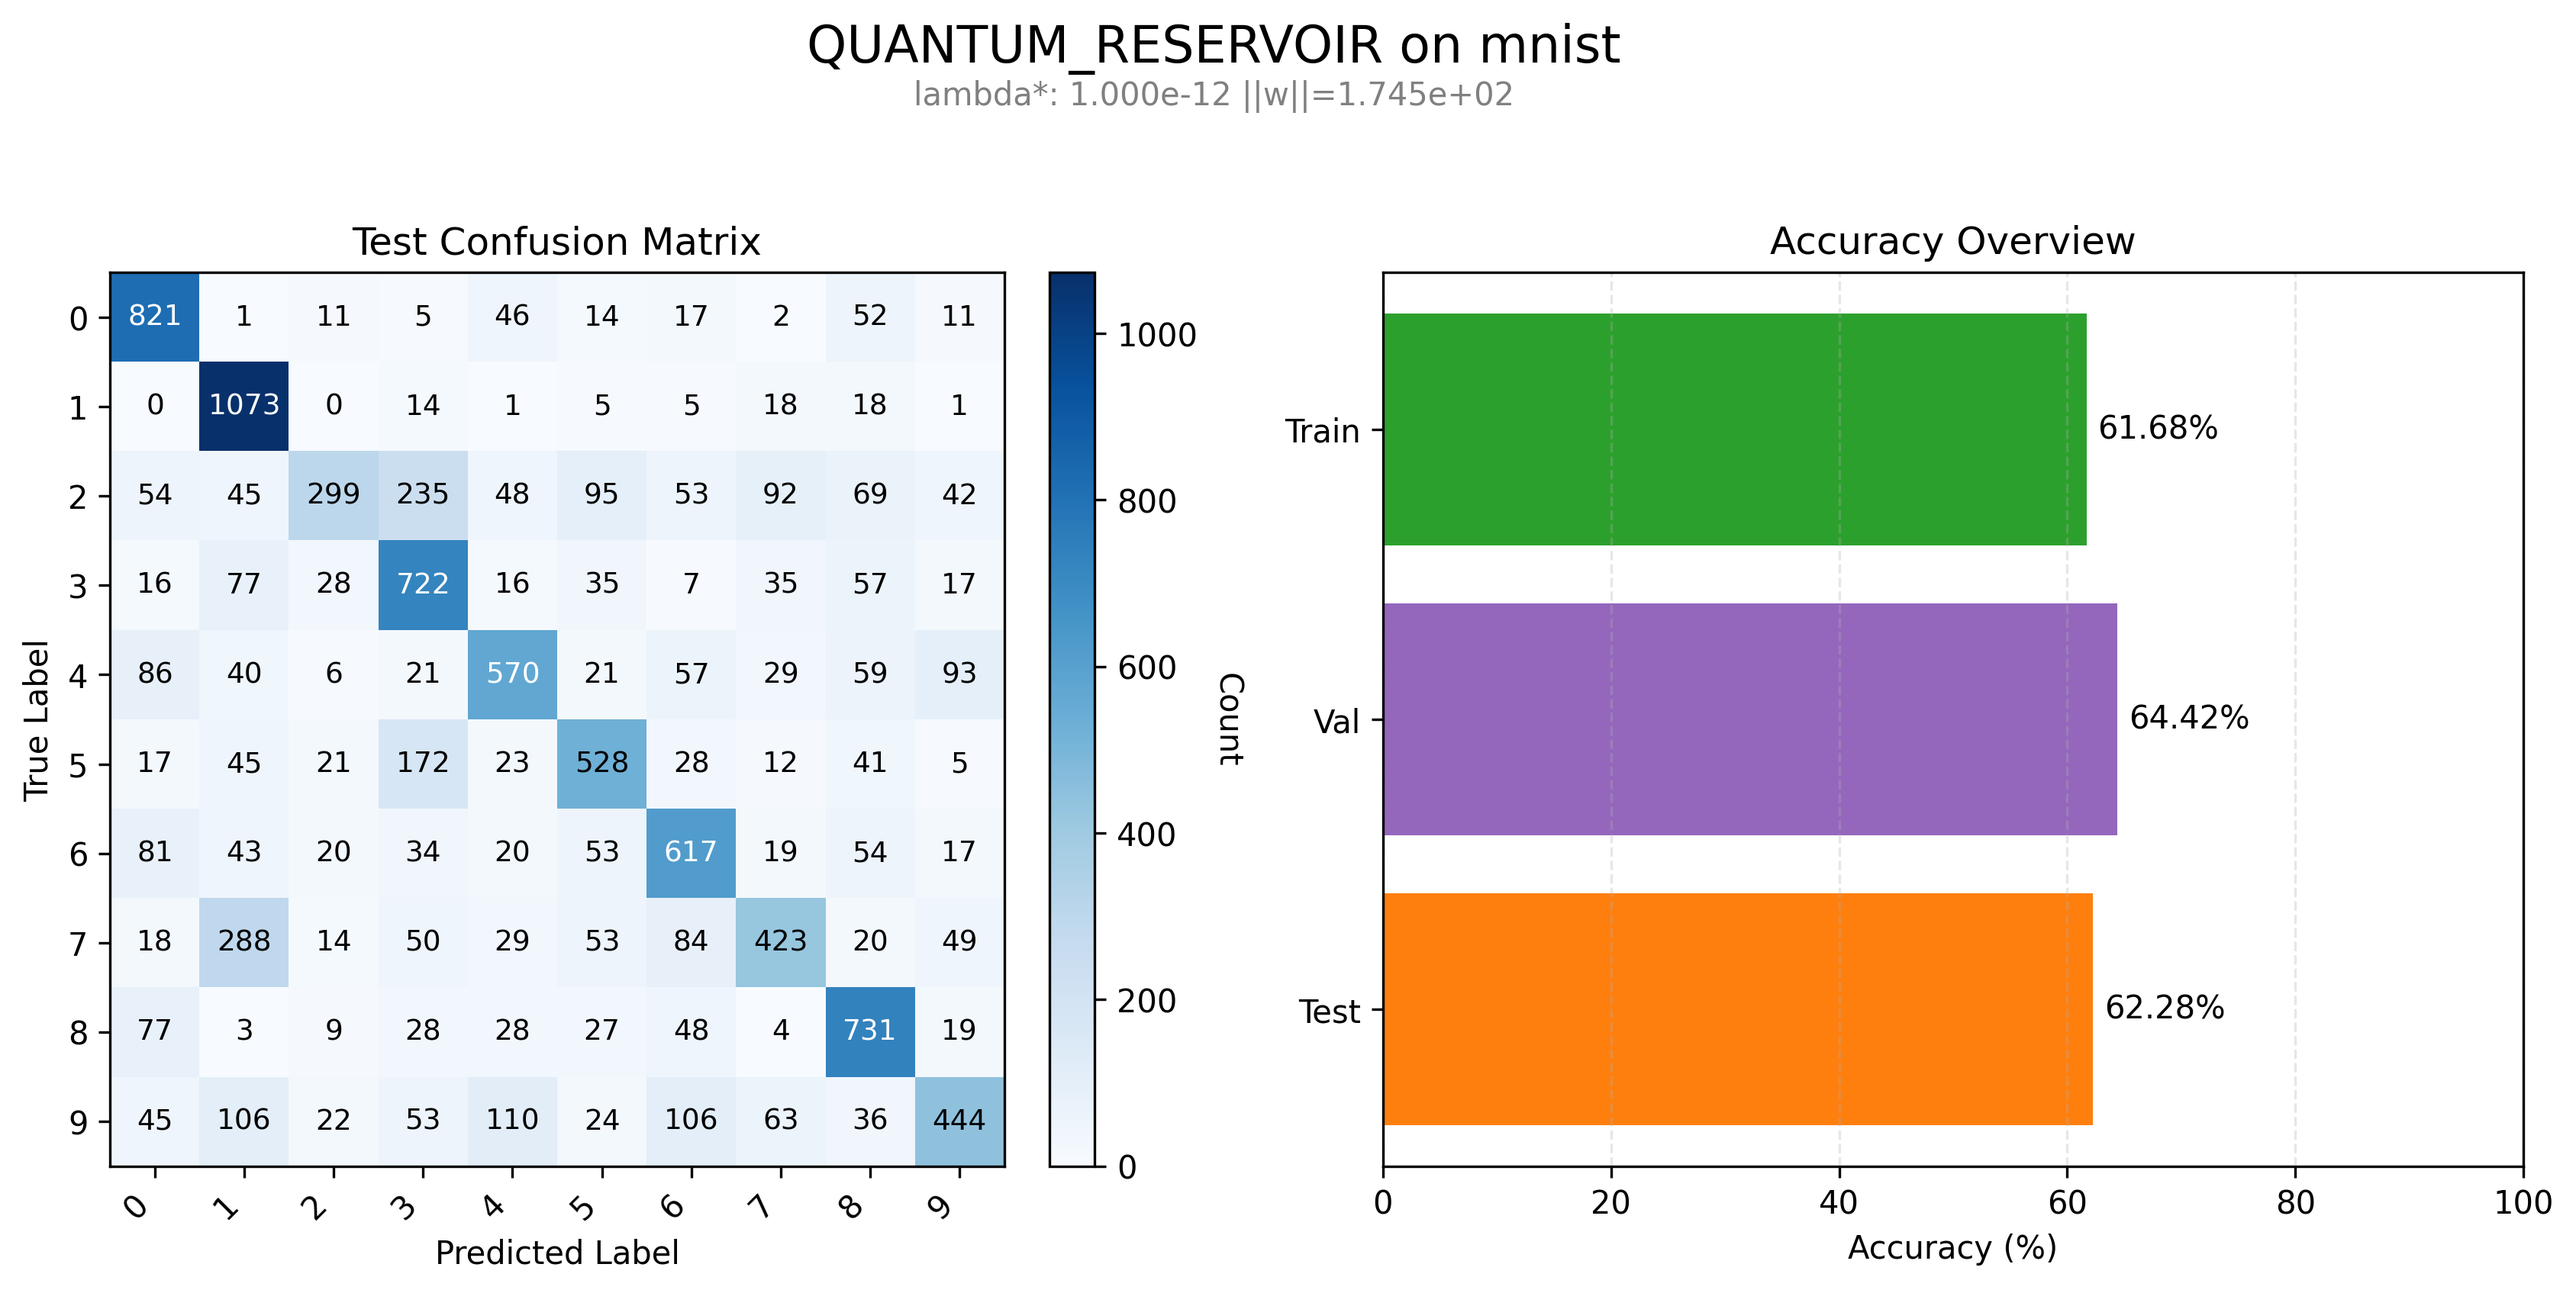
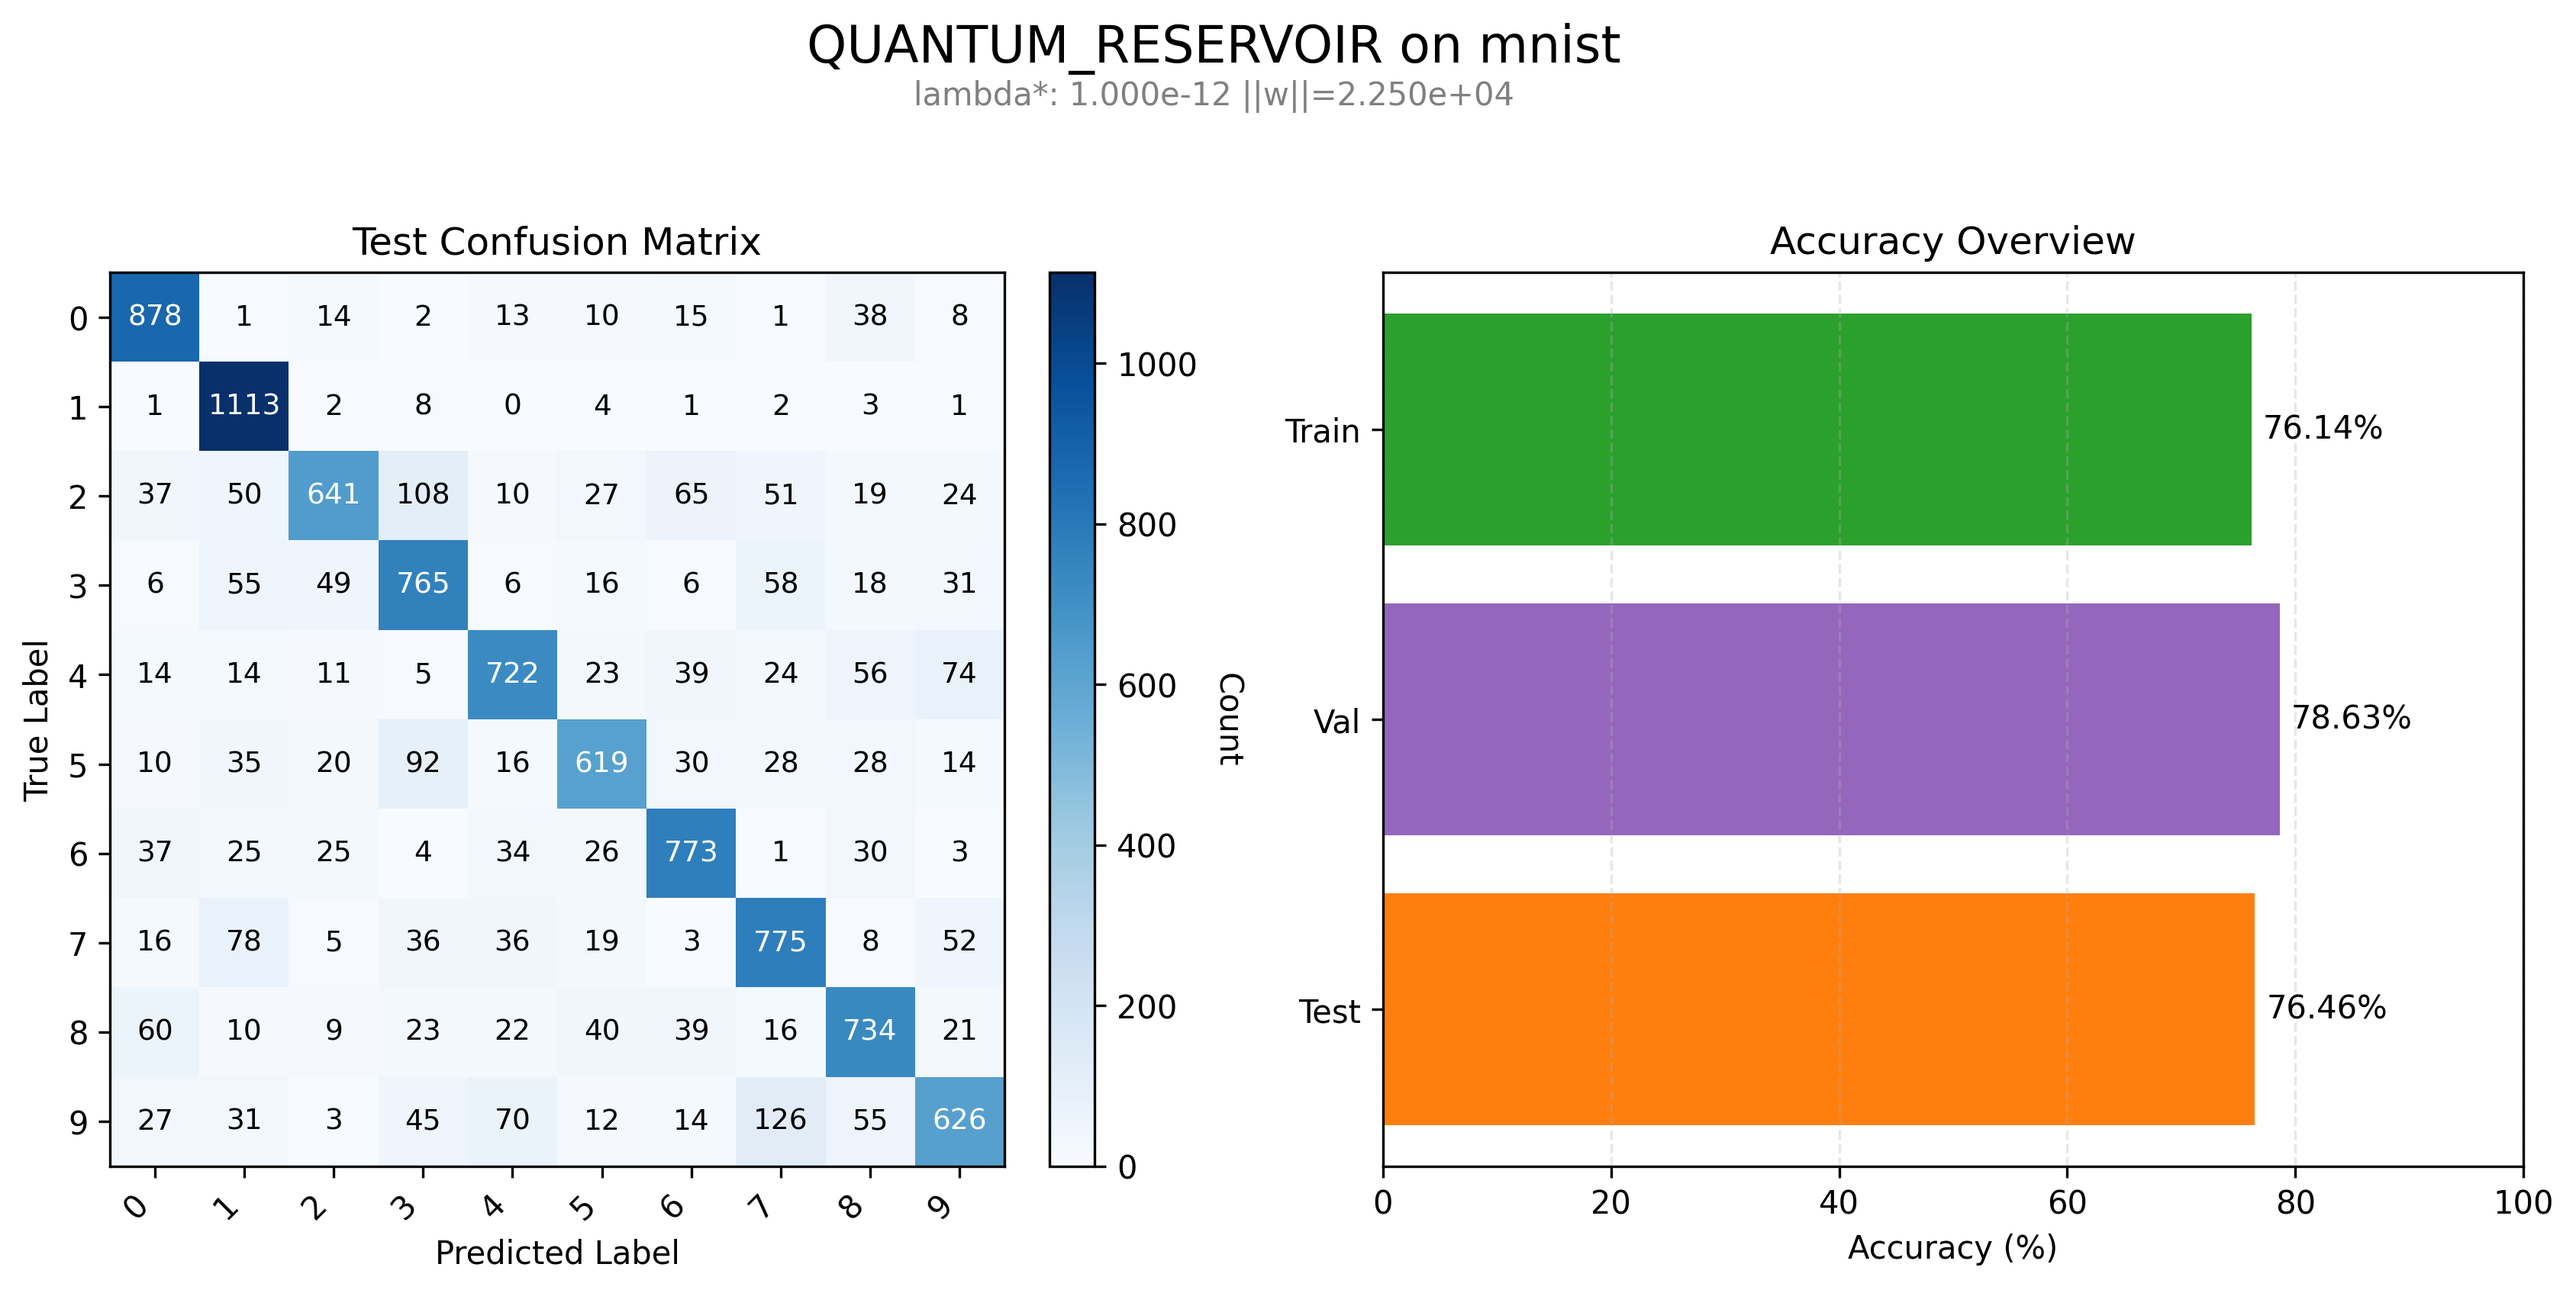
made maxscaler to custumrangescaler renamed

diff --git a/src/reservoir/models/presets.py b/src/reservoir/models/presets.py
@@ -31,7 +31,18 @@ from reservoir.data.presets import get_dataset_preset
 #---------------------------STEP 2--------------------------------------------------
 MAX = CustomRangeScalerConfig(
     scale=1.0,
+    centering=False
+)
+
+MEANMAX = CustomRangeScalerConfig(
+    scale=1.0,
     centering=True
+)
+
+
+CRS = CustomRangeScalerConfig(
+    scale=0.5,
+    centering=False
 )
 #---------------------------STEP 3--------------------------------------------------
 RP = RandomProjectionConfig(
